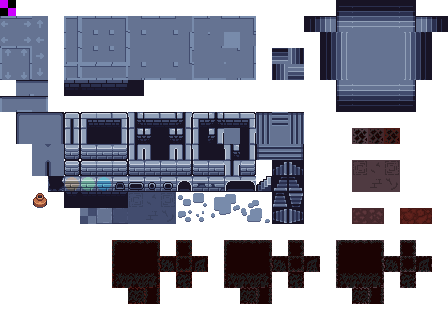
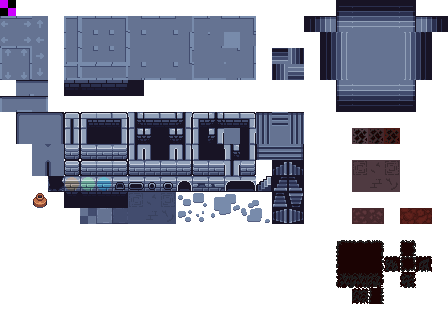
WIP for layering, only draws one kind of floor

Changed region(s): [[0.5, 0.75, 0.7188, 0.9688], [0.25, 0.75, 0.4688, 0.9688], [0.9062, 0.8438, 0.9375, 0.875]]

diff --git a/src/_world.cpp b/src/_world.cpp
@@ -778,13 +778,76 @@ void _world::postProcessWorld() {
 
     const int worldWidth = (int)sqrt(numStartingChunks)*16;
 
-    vector<uint8_t> world_noise_copy(world_noise[LAYER_PRIMARY]);
+    vector<uint8_t> world_noise_primary_copy(world_noise[LAYER_PRIMARY]);
+
     uniform_int_distribution<uint8_t> boss_dist(TILE_FLOOR_BOSS_BLANK_1, TILE_FLOOR_BOSS_BLANK_2); 
     uniform_int_distribution<uint8_t> outer_dist(TILE_FLOOR_OUTER_BLANK_1, TILE_FLOOR_OUTER_BLANK_2); 
     uniform_int_distribution<uint8_t> middle_dist(TILE_FLOOR_OUTER_DEFAULT_1, TILE_FLOOR_OUTER_DEFAULT_2); 
     uniform_int_distribution<uint8_t> inner_dist(TILE_FLOOR_INNER_DEFAULT_1, TILE_FLOOR_INNER_DEFAULT_2); 
     uniform_real_distribution<float> dist(0.0f,1.0f);
     
+    for (int i = 0; i < world_noise[LAYER_FLOOR].size(); i++) {
+        const int col = i % worldWidth;                                 // Which column
+        const int row = i / worldWidth;                                 // Which row
+        
+        const float tilePosX = (-worldWidth * 0.5f + col) * 16.0f;      // Get world pos X
+        const float tilePosY = (worldWidth * 0.5f - row) * 16.0f;       // Get world pos Y
+
+        Vec2f tilePos = {tilePosX, tilePosY};
+        const float distance = tilePos.distance({0.0f,0.0f});
+        level_pos level = getLevelFromPos(tilePos);
+        
+        // FLOOR TILE //
+        switch (level) {
+            case LEVEL_INNER:
+                if (distance < 800.0f) {
+                    // Boss Room //
+                    float transitionProgress = (distance - 300.0f) / 500.0f; // 0.0 at 300, 1.0 at 800
+                    transitionProgress = glm::clamp(transitionProgress, 0.0f, 1.0f);
+
+                    if (dist(rng) > transitionProgress) {
+                        world_noise[LAYER_FLOOR][i] = boss_dist(rng);
+                    } else {
+                        world_noise[LAYER_FLOOR][i] = inner_dist(rng);
+                    }
+                } else {
+                    world_noise[LAYER_FLOOR][i] = inner_dist(rng);
+                }
+                break;
+            case LEVEL_MIDDLE:
+                if (distance < 5000.0f) {
+                    // Transition period between INNER and MIDDLE
+                    float transitionProgress = (distance - 3000.0f) / 2000.0f; // 0.0 at 3000, 1.0 at 5000
+                    transitionProgress = glm::clamp(transitionProgress, 0.0f, 1.0f);
+                    
+                    if (dist(rng) > transitionProgress) {
+                        world_noise[LAYER_FLOOR][i] = inner_dist(rng); // Blend toward middle tiles
+                    } else {
+                        world_noise[LAYER_FLOOR][i] = middle_dist(rng);
+                    }
+                } else {
+                    world_noise[LAYER_FLOOR][i] = middle_dist(rng);
+                }
+                break;
+            case LEVEL_OUTER:
+                if (distance < 10000.0f) {
+                    // Transition period between MIDDLE and OUTER
+                    float transitionProgress = (distance - 8000.0f) / 2000.0f; // 0.0 at 8000, 1.0 at 10000
+                    transitionProgress = glm::clamp(transitionProgress, 0.0f, 1.0f);
+                    
+                    if (dist(rng) > transitionProgress) {
+                        world_noise[LAYER_FLOOR][i] = middle_dist(rng); // Blend toward middle tiles
+                    } else {
+                        world_noise[LAYER_FLOOR][i] = outer_dist(rng);
+                    }
+                } else {
+                    world_noise[LAYER_FLOOR][i] = outer_dist(rng);
+                }
+                break;
+        }
+    }
+
+    // PRIMARY TILE //
     for (int i = 0; i < world_noise[LAYER_PRIMARY].size(); i++) {
         const int col = i % worldWidth;                                 // Which column
         const int row = i / worldWidth;                                 // Which row
@@ -796,57 +859,7 @@ void _world::postProcessWorld() {
         const float distance = tilePos.distance({0.0f,0.0f});
         level_pos level = getLevelFromPos(tilePos);
 
-        // Floor tile
-        if (!world_noise_copy[i]) {
-            switch (level) {
-                case LEVEL_INNER:
-                    if (distance < 800.0f) {
-                        // Boss Room //
-                        float transitionProgress = (distance - 300.0f) / 500.0f; // 0.0 at 300, 1.0 at 800
-                        transitionProgress = glm::clamp(transitionProgress, 0.0f, 1.0f);
-
-                        if (dist(rng) > transitionProgress) {
-                            world_noise[LAYER_PRIMARY][i] = boss_dist(rng);
-                        } else {
-                            world_noise[LAYER_PRIMARY][i] = inner_dist(rng);
-                        }
-                    } else {
-                        world_noise[LAYER_PRIMARY][i] = inner_dist(rng);
-                    }
-                    break;
-                case LEVEL_MIDDLE:
-                    if (distance < 5000.0f) {
-                        // Transition period between INNER and MIDDLE
-                        float transitionProgress = (distance - 3000.0f) / 2000.0f; // 0.0 at 3000, 1.0 at 5000
-                        transitionProgress = glm::clamp(transitionProgress, 0.0f, 1.0f);
-                        
-                        if (dist(rng) > transitionProgress) {
-                            world_noise[LAYER_PRIMARY][i] = inner_dist(rng); // Blend toward middle tiles
-                        } else {
-                            world_noise[LAYER_PRIMARY][i] = middle_dist(rng);
-                        }
-                    } else {
-                        world_noise[LAYER_PRIMARY][i] = middle_dist(rng);
-                    }
-                    break;
-                case LEVEL_OUTER:
-                    if (distance < 10000.0f) {
-                        // Transition period between MIDDLE and OUTER
-                        float transitionProgress = (distance - 8000.0f) / 2000.0f; // 0.0 at 8000, 1.0 at 10000
-                        transitionProgress = glm::clamp(transitionProgress, 0.0f, 1.0f);
-                        
-                        if (dist(rng) > transitionProgress) {
-                            world_noise[LAYER_PRIMARY][i] = middle_dist(rng); // Blend toward middle tiles
-                        } else {
-                            world_noise[LAYER_PRIMARY][i] = outer_dist(rng);
-                        }
-                    } else {
-                        world_noise[LAYER_PRIMARY][i] = outer_dist(rng);
-                    }
-                    break;
-            }
-            continue;
-        }
+        if (!world_noise_primary_copy[i]) continue;
         /*
         Wall Tile
 
@@ -871,7 +884,7 @@ void _world::postProcessWorld() {
                 neighborTiles[j] = true;
                 continue;
             }
-            if (world_noise_copy[index]) {  // Check index, true means wall
+            if (world_noise_primary_copy[index]) {  // Check index, true means wall
                 neighborTiles[j] = true;
             }
         }
